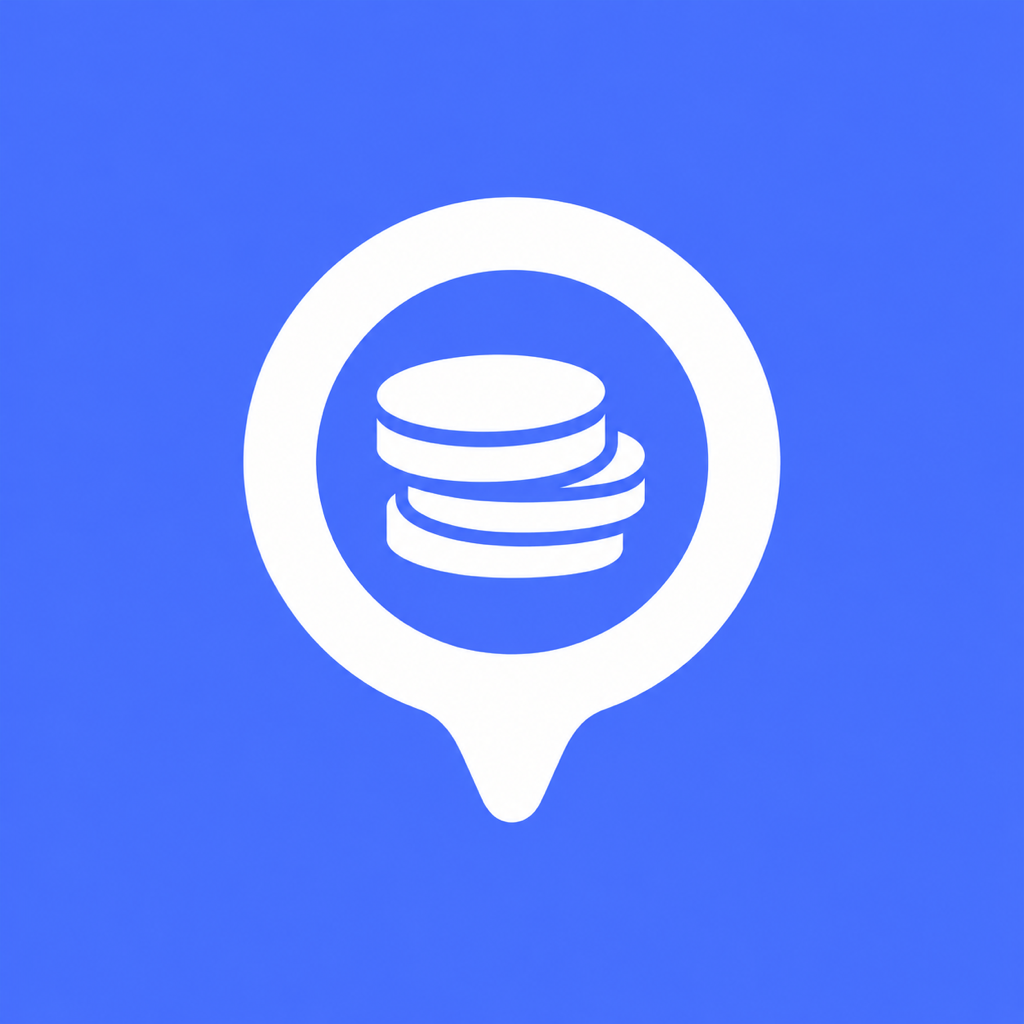
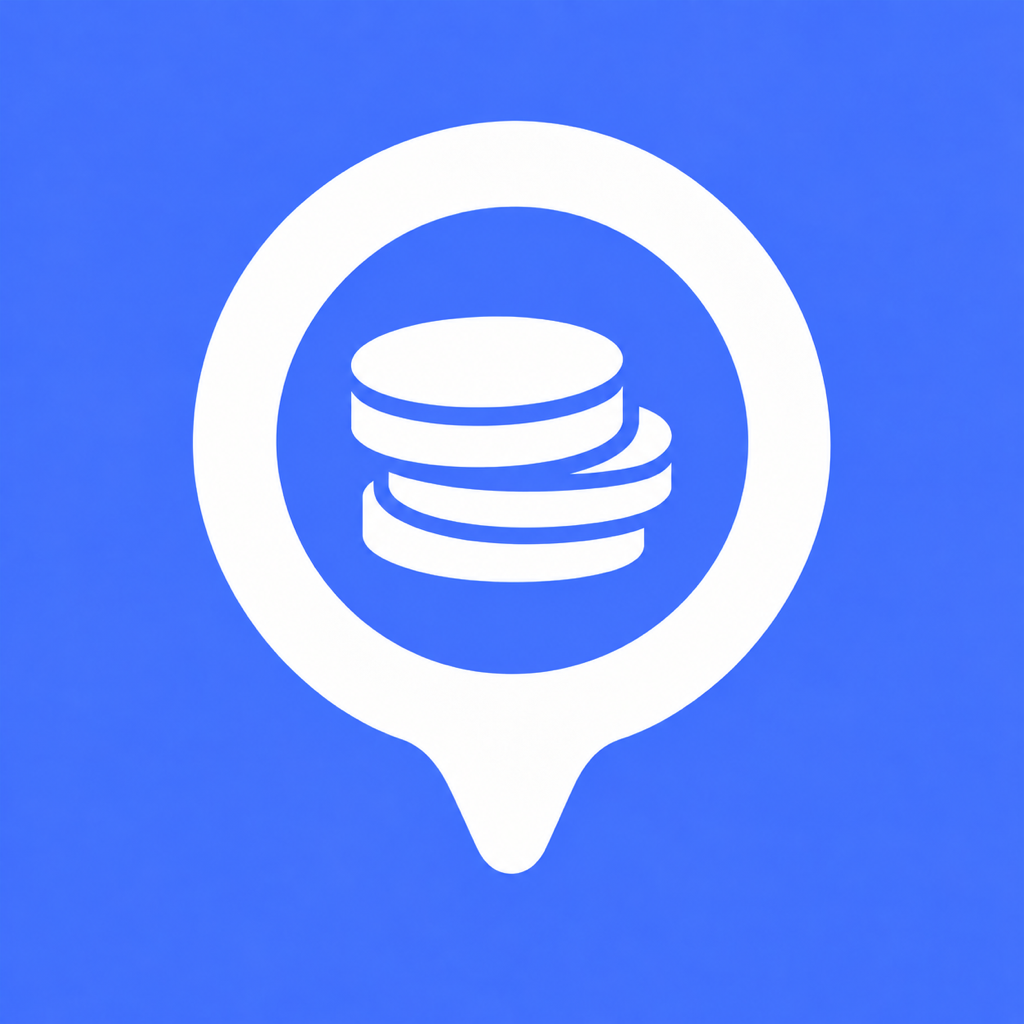
fix: 앱 아이콘 심볼 크기 조정

Changed region(s): [[0.1875, 0.0938, 0.8125, 0.875], [0.4375, 0.5625, 0.5625, 0.5938]]

diff --git a/public/index.html b/public/index.html
@@ -5,7 +5,7 @@
     <meta httpEquiv="X-UA-Compatible" content="IE=edge" />
     <meta name="viewport" content="width=device-width, initial-scale=1, shrink-to-fit=no, viewport-fit=cover" />
     <title>%WEB_TITLE%</title>
-    <link rel="apple-touch-icon" href="/apple-touch-icon.png" />
+    <link rel="apple-touch-icon" href="/apple-touch-icon.png?v=2" />
     <meta name="apple-mobile-web-app-title" content="몬스핀" />
     <!-- The `react-native-web` recommended style reset: https://necolas.github.io/react-native-web/docs/setup/#root-element -->
     <style id="expo-reset">

diff --git a/README.md b/README.md
@@ -9,9 +9,9 @@
 - `assets/brand/logo-source.png`: 사용자가 선택한 원본 시안. 내장 이미지 생성 도구로 제작했으며, 프롬프트는 ‘파란 배경·흰색 둥근 핀을 유지하고 안쪽을 두께와 겹침이 보이는 동전 세 개로 표현; 문자·통화 기호·반사선 없이 구성’입니다.
 - `assets/brand/symbol-source.png`: 내장 이미지 생성 도구로 편집한 홈 심볼 원본. 프롬프트는 ‘선택한 동전·핀의 형태를 유지하고 흰 심볼을 파란색으로 변경; 배경·내부 여백은 투명 처리; 문자·장식 추가 없이 구성’입니다.
 - `assets/brand/symbol.png`: 화면용 투명 224×256 이미지. 실제 표시 영역에 맞게 바깥 여백을 줄이고, 앱의 공통 파란색으로 표시합니다.
-- `assets/icon.png`: iOS·Android 아이콘용 1024×1024 이미지; Android 적응형 아이콘도 이 이미지를 사용합니다.
+- `assets/icon.png`: iOS·Android 아이콘용 1024×1024 이미지; Android 적응형 아이콘도 이 이미지를 사용합니다. 홈 화면에서 다른 앱과 존재감이 맞도록 흰색 심볼을 이전 대비 약 20% 확대했습니다. 내장 이미지 생성 도구로 기존 아이콘을 편집했으며, 프롬프트는 ‘흰 핀·동전 심볼을 중심 기준 약 18% 균일 확대; 기존 파란 배경·핀 윤곽·동전 세 개의 형태와 비율 유지; 별도 선 두께 변경·문자·그림자·둥근 모서리 추가 없음’입니다.
 - `assets/favicon.png`: 웹 파비콘용 64×64 이미지
-- `public/apple-touch-icon.png`: 기존 앱 아이콘과 동일한 iPhone·iPad 홈 화면용 이미지. `public/index.html`에서 연결하며 홈 화면 기본 이름은 ‘몬스핀’입니다. 아이콘 원본을 바꾸면 이 파일도 함께 갱신합니다.
+- `public/apple-touch-icon.png`: 기존 앱 아이콘과 동일한 iPhone·iPad 홈 화면용 이미지. `public/index.html`에서 연결하며 홈 화면 기본 이름은 ‘몬스핀’입니다. 아이콘 원본을 바꾸면 이 파일도 함께 갱신합니다. 확대 버전은 링크에 `?v=2`를 붙여 새로 추가할 때 이전 이미지 캐시와 구분합니다.
 
 같은 동전·핀 디자인을 사용처에 맞게 내보냈습니다. 이미지는 앱과 함께 포함되어 오프라인에서도 표시됩니다. Android의 예전 템플릿 배경·단색 아이콘 설정과 사용하지 않는 홈 배지 이미지는 제거했습니다.
 
